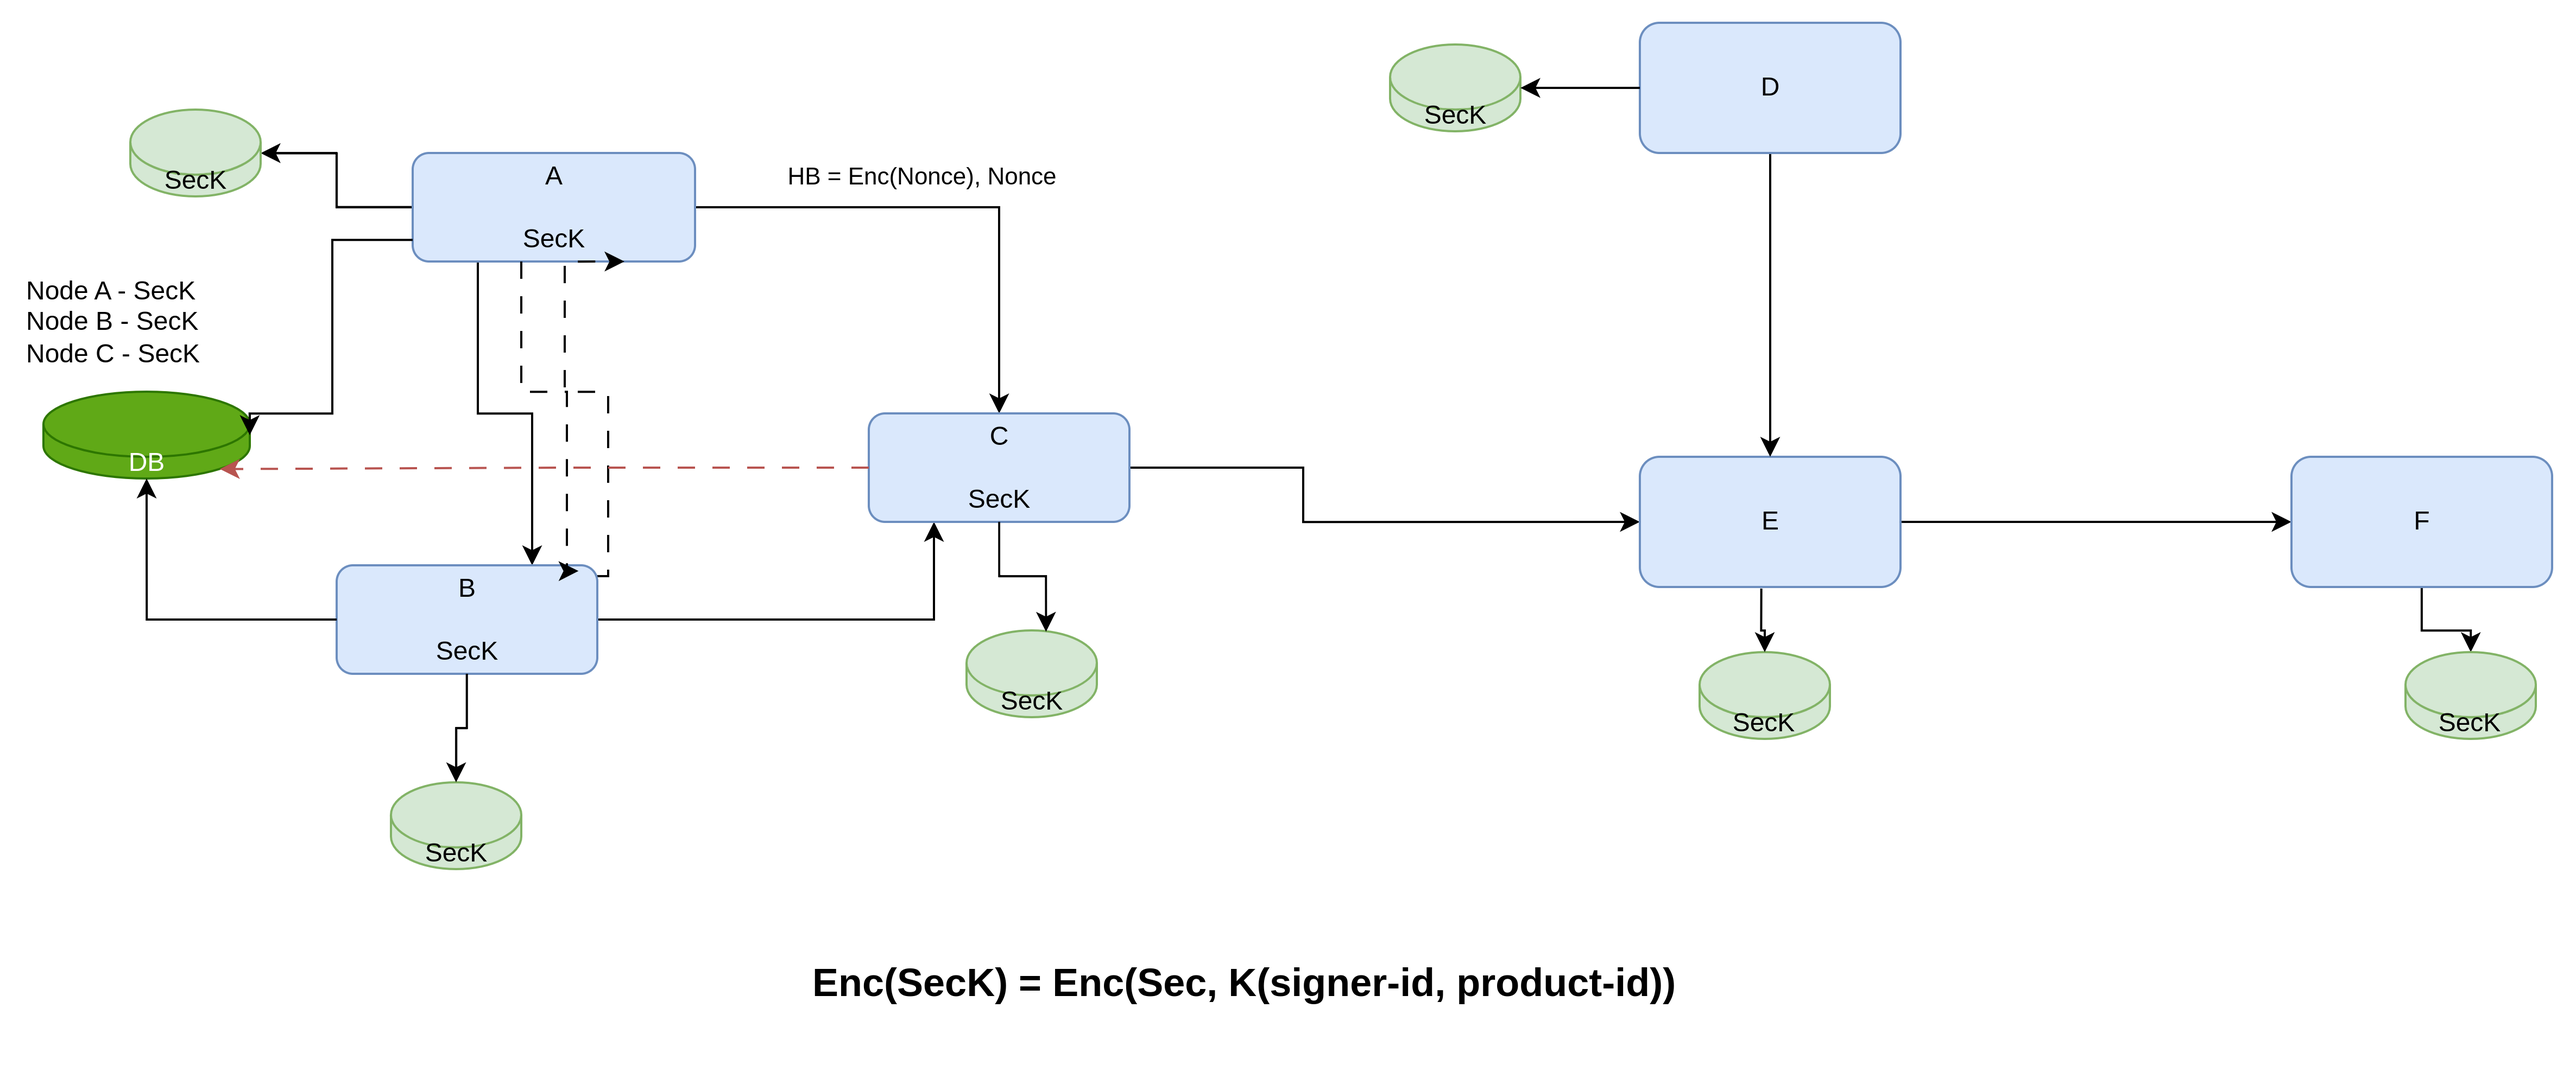
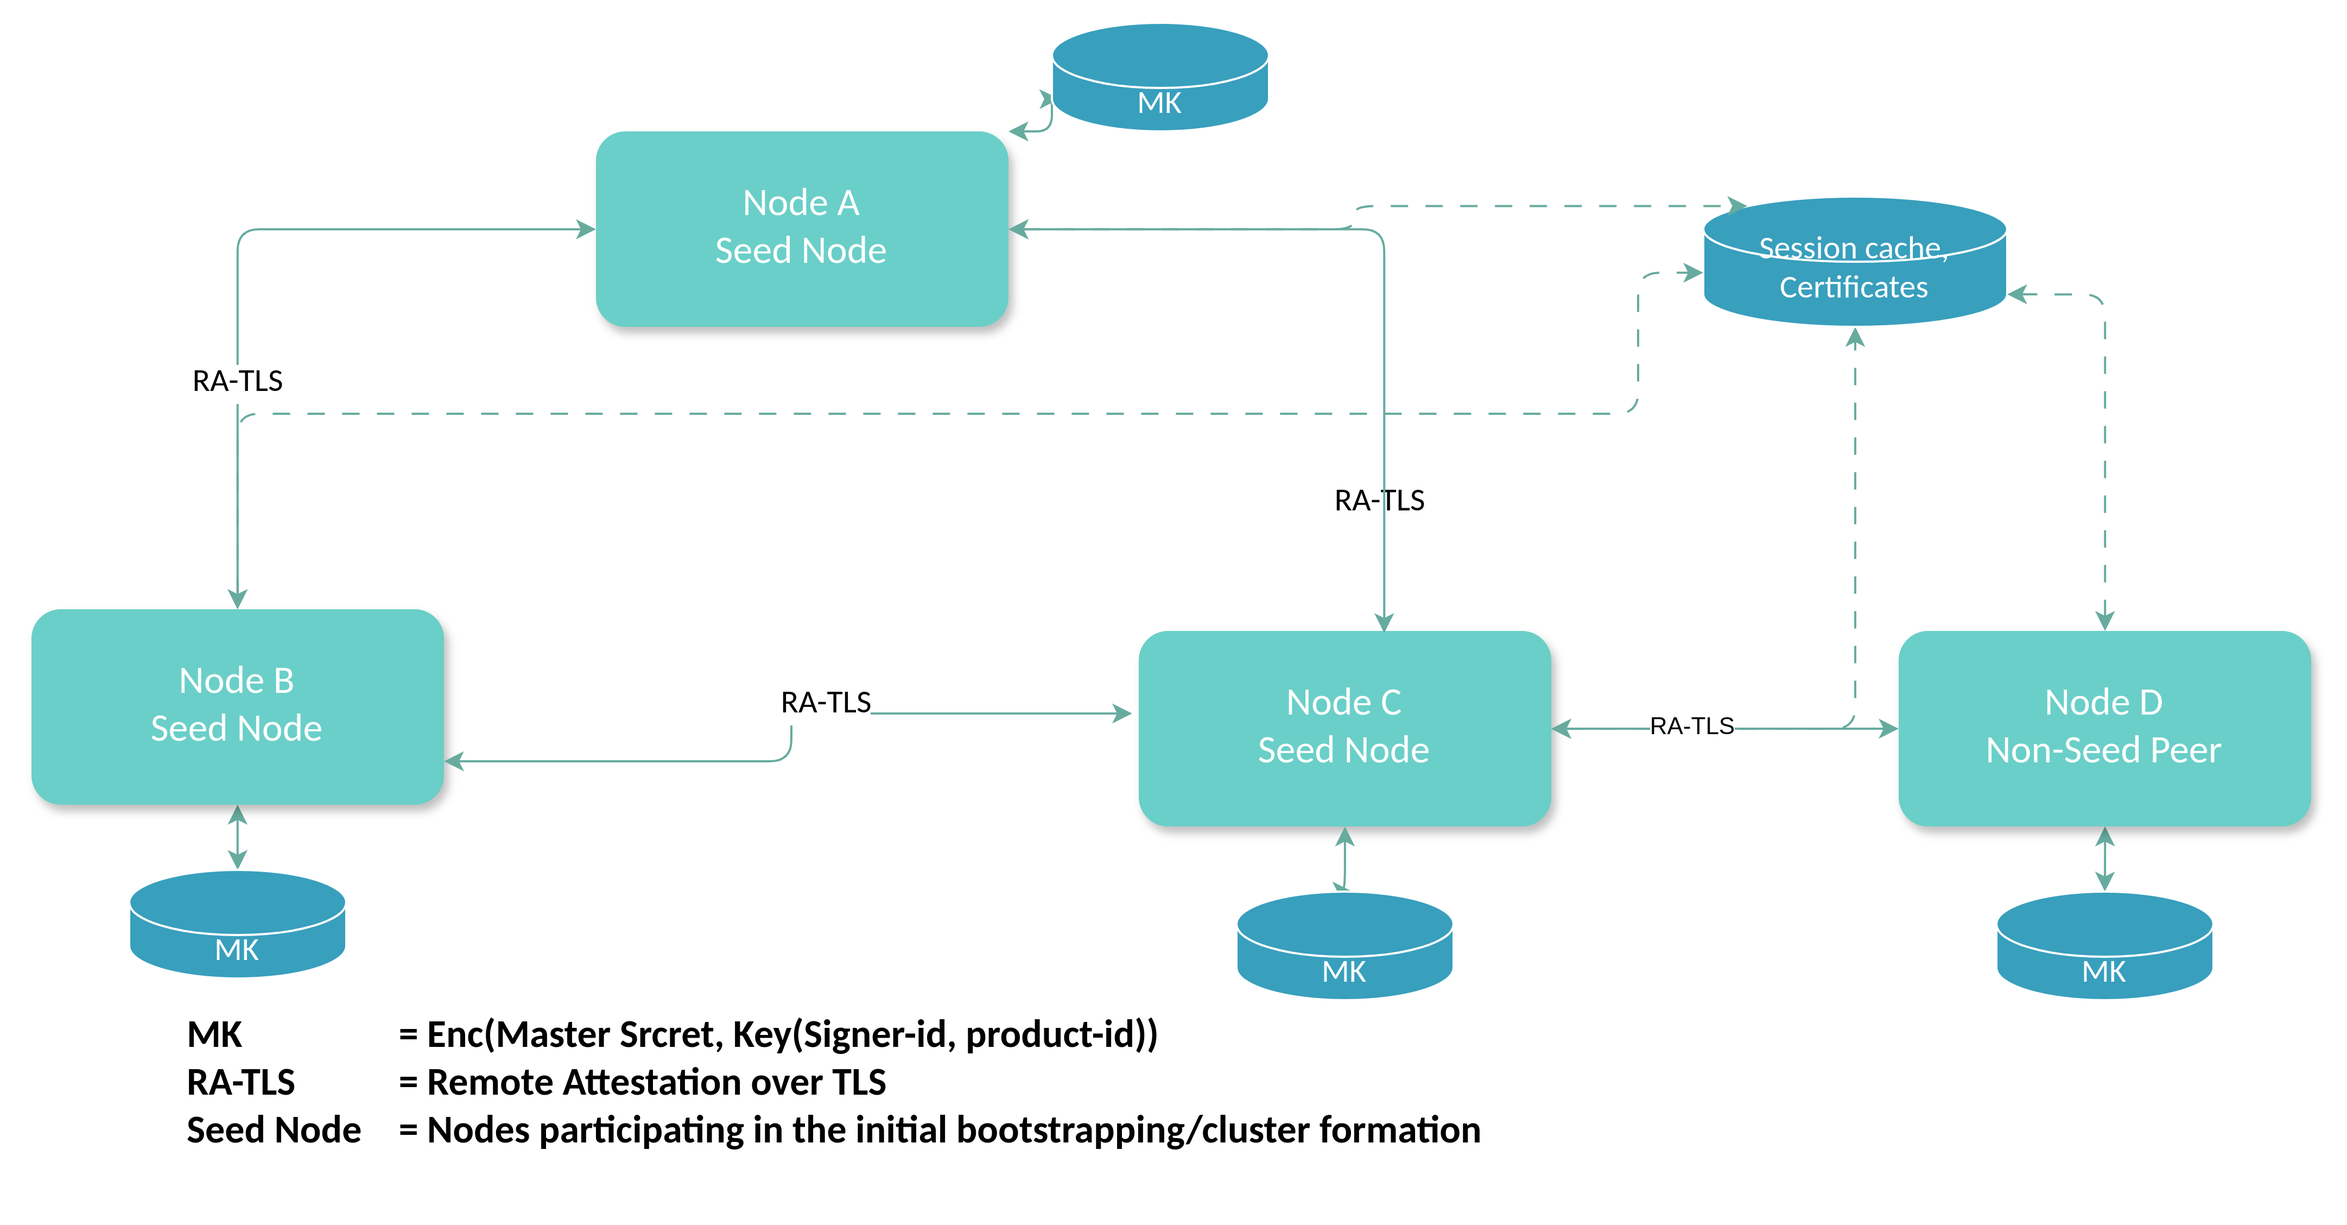
docs update

diff --git a/doc/01-Internals.md b/doc/01-Internals.md
@@ -30,7 +30,7 @@ All node-to-node communication uses **transparent attested TLS**:
 #### Certificate Generation
 
 - Each node generates a keypair
-- Hashes the public key and requests TDX/SGX quote with hash as report data
+- Hashes the public key and requests SGX quote with hash as report data
 - Embeds the hardware quote in X.509 certificate extension
 
 #### Peer Verification
